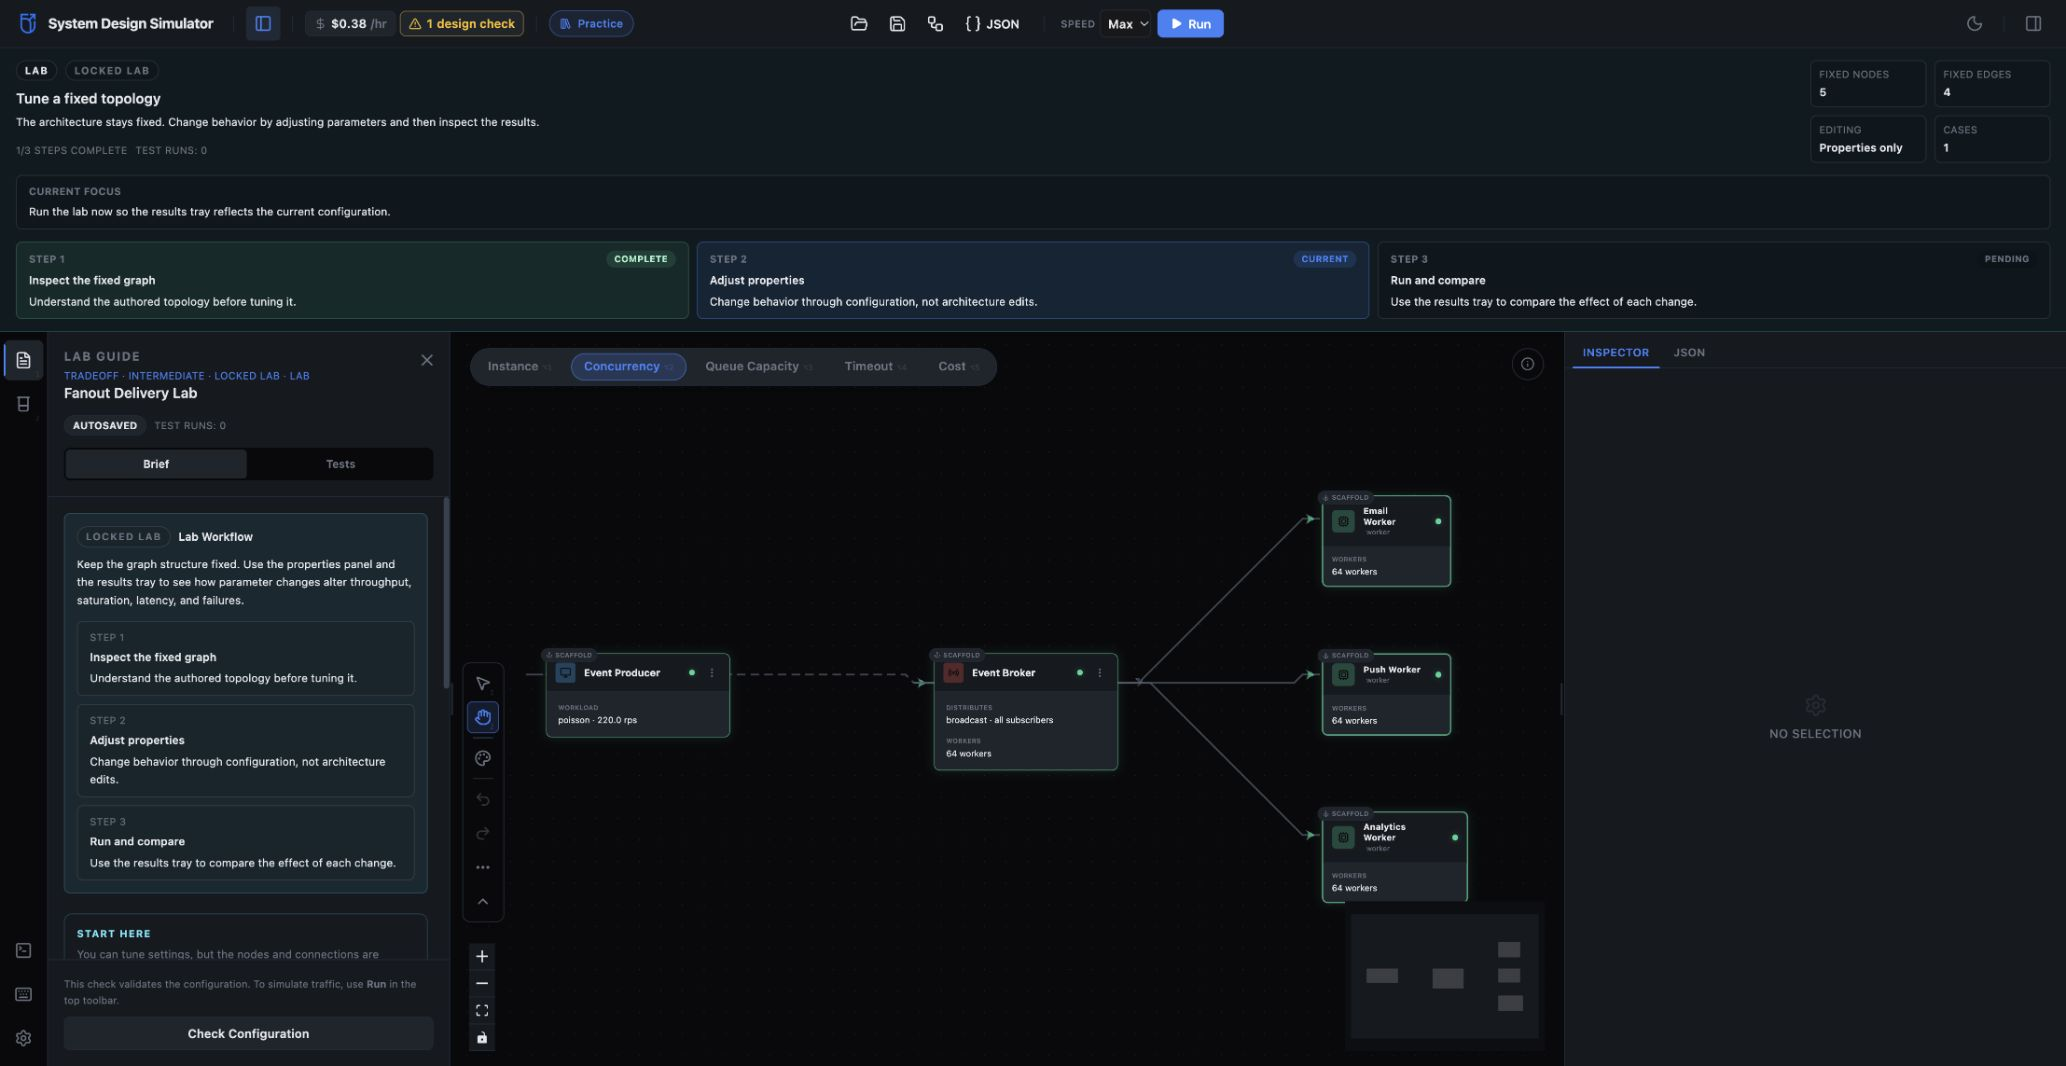
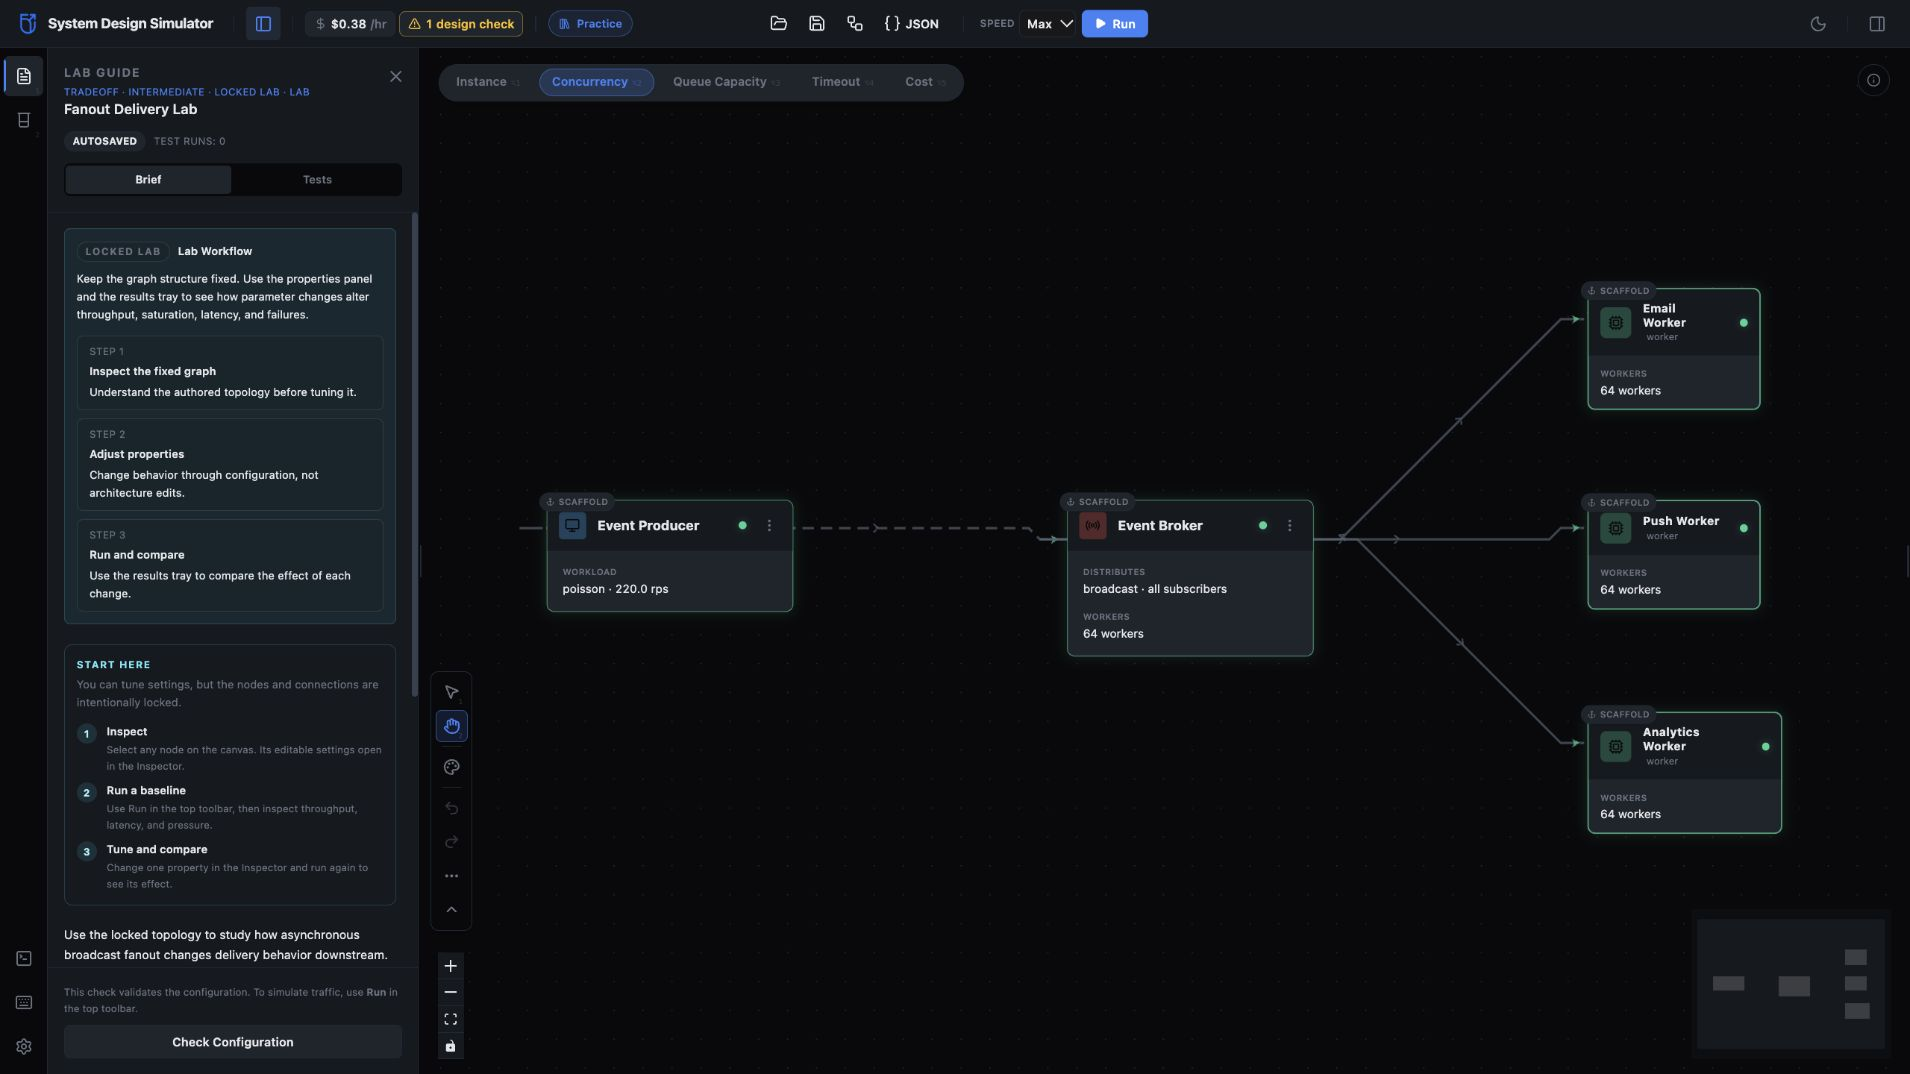
fix(ui): keep lab guidance in side panel

diff --git a/src/renderer/src/components/layout/WorkspaceLayout.tsx b/src/renderer/src/components/layout/WorkspaceLayout.tsx
@@ -1668,7 +1668,7 @@ export const WorkspaceLayout = () => {
         canSave={canUseTopologyFiles}
       />
 
-      {activeQuestion && SHOW_ENTRY_FORMAT_WORKFLOW && (
+      {activeQuestion && SHOW_ENTRY_FORMAT_WORKFLOW && !isLabQuestion(activeQuestion) && (
         <QuestionExperienceStrip
           question={activeQuestion}
           experience={experienceEnvelope}
